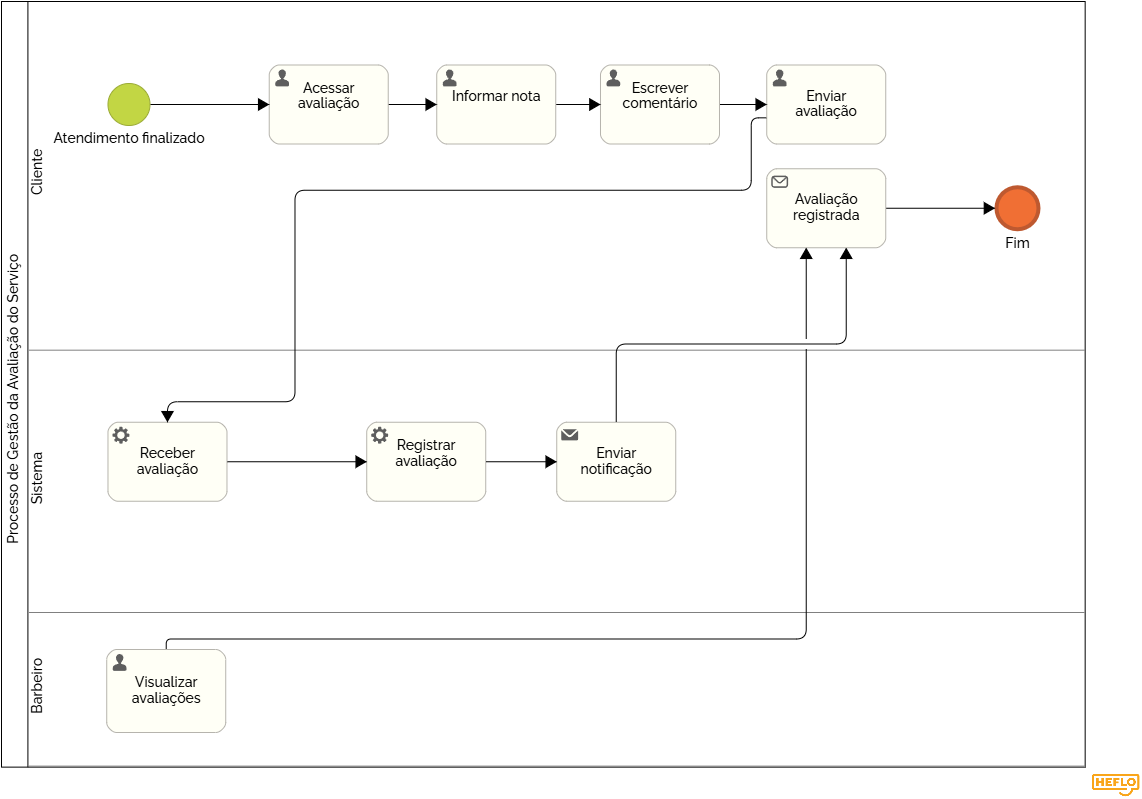
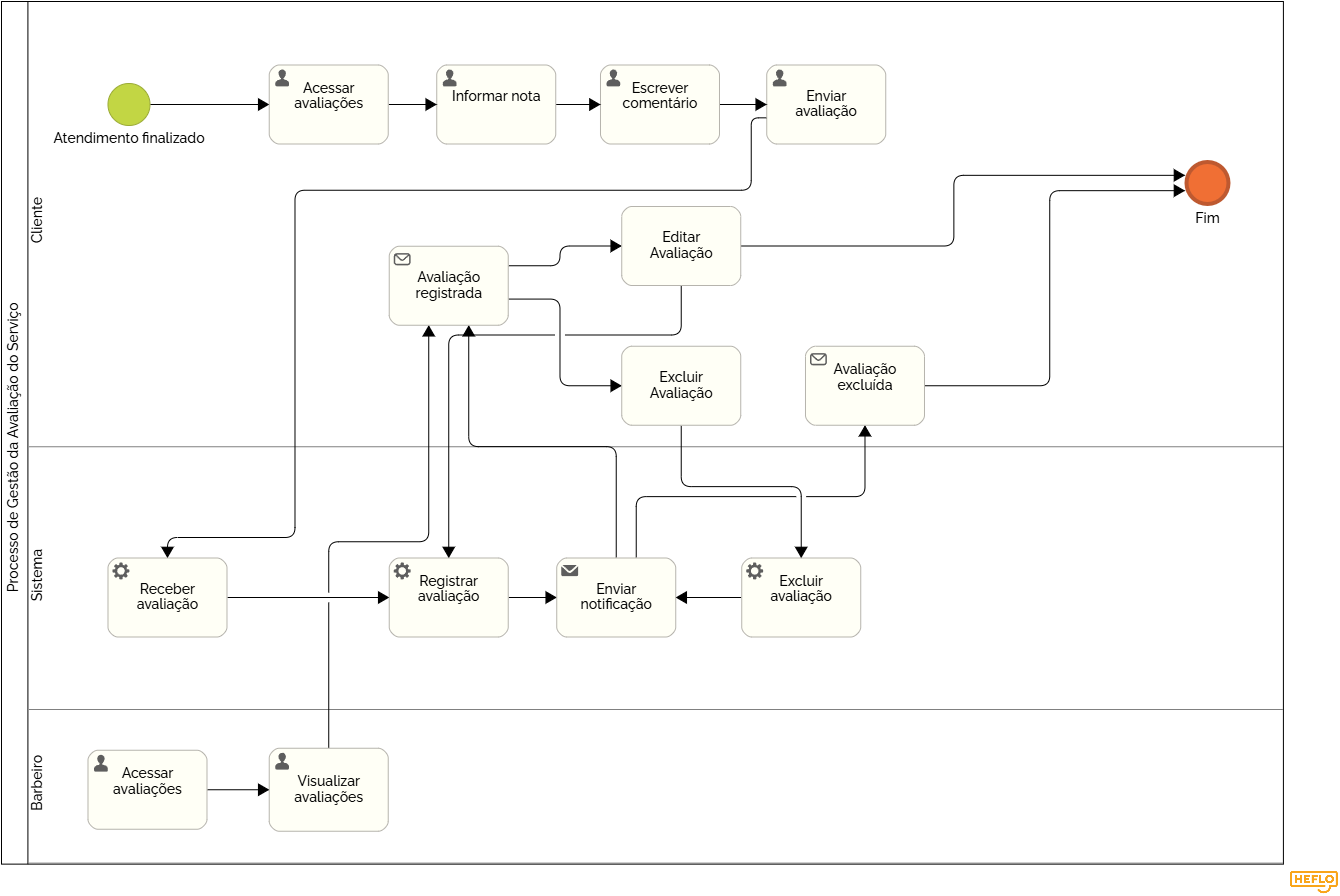
Correções aplicadas

diff --git a/docs/3.3.4-Processo-4–Gestão-da-Avaliação-do-Serviço.md b/docs/3.3.4-Processo-4–Gestão-da-Avaliação-do-Serviço.md
@@ -4,7 +4,7 @@ O processo de avaliação do serviço tem como objetivo coletar a opinião dos c
 
 No cenário proposto (TO BE), o sistema permite que o cliente (Lucas) avalie o serviço diretamente na plataforma, registrando nota e comentário.Isso permite que Roberto acompanhe a satisfação dos clientes e identifique oportunidades de melhoria.
 
-O fluxo tem início na raia do Cliente com o evento "Atendimento finalizado", que dispara uma sequência de tarefas manuais: o cliente acessa a área de avaliação, informa a nota do serviço, escreve um comentário e, por fim, envia a avaliação. Ao enviar, o fluxo é transferido para a raia do Sistema, que executa automaticamente as tarefas de receber a avaliação,registrar os dados no banco de dados e enviar uma notificação de confirmação. Após a notificação, o fluxo retorna para a raia do Cliente, encerrando-se no evento "Avaliação registrada". Na raia do Barbeiro, existe a tarefa de visualizar as avaliações, que funciona como uma etapa de acompanhamento dos feedbacks recebidos.
+O fluxo tem início na raia do Cliente com o evento "Atendimento finalizado", que dispara uma sequência de tarefas manuais: o cliente acessa a área de avaliação, informa a nota do serviço, escreve um comentário e, por fim, envia a avaliação, com a possibilidade de editar ou excluir mais tarde. Ao enviar, o fluxo é transferido para a raia do Sistema, que executa automaticamente as tarefas de receber a avaliação,registrar os dados no banco de dados e enviar uma notificação de confirmação. Após a notificação, o fluxo retorna para a raia do Cliente, encerrando-se no evento "Avaliação registrada". Na raia do Barbeiro, existe a tarefa de visualizar as avaliações, que funciona como uma etapa de acompanhamento dos feedbacks recebidos.
 
 ##### 3.3.4.1  Modelagem BPMN
 ![`Processo de Gestão da Avaliação do Serviço Diagrama`](images/ProcessodeGestãodaAvaliaçãodoServiçoDiagrama.png)
@@ -21,6 +21,7 @@ Os tipos de dados utilizados no processo são:
 * Hora: campo do tipo hora (hh:mm:ss)
 * Data e Hora: campo do tipo data e hora
 * Seleção única: campo com opções mutuamente exclusivas
+* Seleção múltipla: campo com uma ou várias opções 
 * Tabela: conjunto de dados estruturados
 
 
@@ -28,12 +29,16 @@ Os tipos de dados utilizados no processo são:
 | **Campo**         | **Tipo**       | **Restrições** | **Valor default** |
 | ----------------- | -------------- | -------------- | ----------------- |
 | serviço realizado       | Tabela           | -              | -        |
-| como você avalia o serviço       | Seleção única        | -              | -        |
+| Sua avaliação    | Tabela      | -              | -        |
+| Como você avalia o serviço      | Seleção múltipla        | -              | -        |
 | Deixe um comentário      | Seleção única        | -              | -        |
 
 | **Comandos** | **Destino**     | **Tipo** |
 | ------------ | -------------   | -------- |
+| avaliações |avaliar serviço | Link  |
 | enviar avaliação  |receber avaliação | Link  |
+| editar avaliação  |receber avaliação | Link  |
+| excluir avaliação  |receber avaliação | Link  |
 
 
 **2 Visualizar avaliações**
@@ -47,6 +52,7 @@ Os tipos de dados utilizados no processo são:
 | mais recentes              | exibe as avaliações mais recentes | Seleção única   |
 
 ##### 3.3.4.3 Wireframes (user tasks)
+![`wireframe Avaliacao`](images/wireframeAvaliacaoCliente.png)
 ![`wireframe Avaliacao`](images/wireframeAvaliacao.png)
 
 [3.3.5 Processo 5 – (Gestão do Estoque de Material da Barbearia)](./3.3.5-Processo-5–Gestão-do-Estoque-de-Material-da-Barbearia.md)

diff --git a/docs/3.3.3-Processo-3–Gestão-do-Financeira.md b/docs/3.3.3-Processo-3–Gestão-do-Financeira.md
@@ -31,6 +31,12 @@ Os tipos de dados utilizados no processo são:
 * Seleção múltipla: campo com múltiplas opções selecionáveis
 
 **1 Acessar painel financeiro**
+| **Comandos**              | **Destino**     | **Tipo** |
+| ------------              | --------------- | -------- |
+| financeiro| Gestão financeira | automático  |
+
+
+**2 Gestão financeira**
 | **Campo** | **Tipo**       | **Restrições** | **Valor default** |
 | --------- | -------------- | -------------- | ----------------- |
 | total recebido  | Número          | -    | -                 |
